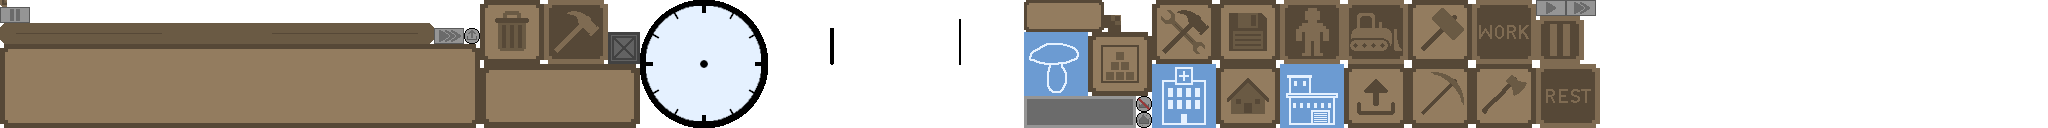
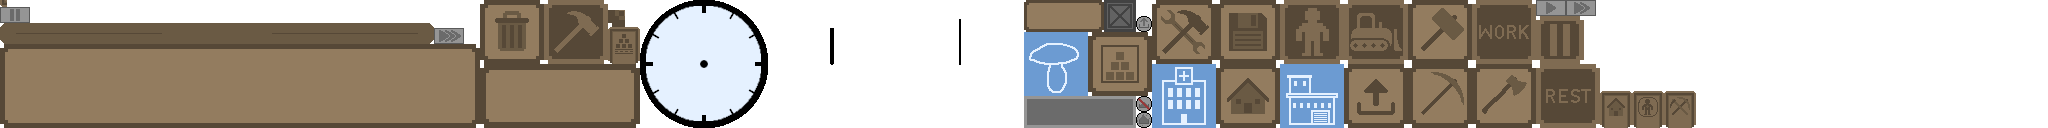
building window tabs

diff --git a/core/src/com/boxhead/builder/ui/UI.java b/core/src/com/boxhead/builder/ui/UI.java
@@ -43,12 +43,27 @@ public class UI {
 
     private static ResourceList resourceList;
 
-    private static Window buildWindow;
+    private static Window buildingWindow;
     private static TextArea buildWindowDivider;
-    private static Button logCabinButton, lumberjackButton, mineButton, serviceButton, storageButton, constructionOfficeButton, transportOfficeButton;
     private static UIElement buildingImage;
     private static Button buildButton;
     private static TextArea buildingDescription;
+
+    private static Button infrastructureTabButton;
+    private static UIElement infrastructureTab;
+    private static Button storageButton, constructionOfficeButton, transportOfficeButton;
+
+    private static Button housingTabButton;
+    private static UIElement housingTab;
+    private static Button logCabinButton;
+
+    private static Button resourcesTabButton;
+    private static UIElement resourcesTab;
+    private static Button lumberjackButton, mineButton;
+
+    private static Button servicesTabButton;
+    private static UIElement servicesTab;
+    private static Button serviceButton;
 
     private static Window pauseWindow;
     private static Button resumeButton, loadButton, saveButton, settingsButton, quitButton;
@@ -56,6 +71,11 @@ public class UI {
     private static Window saveWindow;
     private static TextArea saveText;
     private static ScrollPane scrollPane;
+    private static Button saveWindowBackButton;
+
+    private static Window settingsWindow;
+    private static TextArea settingsText;
+    private static Button settingsWindowBackButton;
 
     private static NPCStatWindow npcStatWindow;
     private static BuildingStatWindow buildingStatWindow;
@@ -83,9 +103,10 @@ public class UI {
     public enum Layer {
         BUILDINGS(true),
         IN_GAME(true),
-        BUILD_MENU(false),
+        BUILDING_MENU(false),
         PAUSE_MENU(false),
         SAVE_MENU(false),
+        SETTINGS_MENU(false),
         POPUP(false);
 
         private final List<UIElement> elements;
@@ -145,7 +166,7 @@ public class UI {
             resumeButton.setOnUp(() -> showPauseMenu(false));
             loadButton.setOnUp(UI::showLoadMenu);
             saveButton.setOnUp(UI::showSaveMenu);
-            settingsButton.setOnUp(() -> {});
+            settingsButton.setOnUp(() -> Layer.SETTINGS_MENU.setVisible(true));
             quitButton.setOnUp(() -> Gdx.app.exit());
 
             resumeButton.setTint(WHITE);
@@ -164,10 +185,42 @@ public class UI {
 
         saveText = new TextArea("Save", saveWindow, Layer.SAVE_MENU, new Vector2i(0, saveWindow.getWindowHeight() - 25), saveWindow.getWindowWidth(), true);
 
-        scrollPane = new ScrollPane(saveWindow, Layer.SAVE_MENU, new Vector2i(0, 20), saveWindow.getWindowWidth(), saveWindow.getWindowHeight() - 75);
+        scrollPane = new ScrollPane(saveWindow, Layer.SAVE_MENU, new Vector2i(0, saveWindow.getEdgeWidth() + padding*2 + 32), saveWindow.getWindowWidth(), saveWindow.getWindowHeight() - 75);
+
+        saveWindowBackButton = new Button(
+                Textures.get(Textures.Ui.SMALL_BUTTON),
+                saveWindow,
+                Layer.SAVE_MENU,
+                new Vector2i(saveWindow.getWindowWidth()/2 - 40, saveWindow.getEdgeWidth() + padding),
+                "Back");
+        saveWindowBackButton.setOnUp(() -> Layer.SAVE_MENU.setVisible(false));
 
         saveWindow.setTint(WHITE);
         saveText.setTint(WHITE);
+        saveWindowBackButton.setTint(WHITE);
+        //endregion
+
+        //region settingsWindow
+        {
+            settingsWindow = new Window(Textures.get(Textures.Ui.MENU_WINDOW), Anchor.CENTER.getElement(), Layer.SETTINGS_MENU, new Vector2i());
+            settingsWindow.setContentWidth(500);
+            settingsWindow.setContentHeight(500);
+            settingsWindow.setLocalPosition(-settingsWindow.getWindowWidth() / 2, -settingsWindow.getWindowHeight() / 2);
+
+            settingsText = new TextArea("Settings", settingsWindow, Layer.SETTINGS_MENU, new Vector2i(0, settingsWindow.getWindowHeight() - 25), settingsWindow.getWindowWidth(), true);
+
+            settingsWindowBackButton = new Button(
+                    Textures.get(Textures.Ui.SMALL_BUTTON),
+                    settingsWindow,
+                    Layer.SETTINGS_MENU,
+                    new Vector2i(settingsWindow.getWindowWidth()/2 - 40, settingsWindow.getEdgeWidth() + padding),
+                    "Back");
+            settingsWindowBackButton.setOnUp(() -> Layer.SETTINGS_MENU.setVisible(false));
+
+            settingsWindow.setTint(WHITE);
+            settingsText.setTint(WHITE);
+            settingsWindowBackButton.setTint(WHITE);
+        }
         //endregion
 
         //region mainButtonGroup
@@ -180,13 +233,7 @@ public class UI {
             demolishButton = new Button(Textures.get(Textures.Ui.DEMOLISH), Anchor.BOTTOM_LEFT.getElement(), Layer.IN_GAME, new Vector2i(x + 74, padding));
             pauseGameButton = new Button(Textures.get(Textures.Ui.PAUSE_GAME), Anchor.BOTTOM_RIGHT.getElement(), Layer.IN_GAME, new Vector2i(-48 - padding, padding));
 
-            buildMenuButton.setOnUp(() -> {
-                Layer.BUILD_MENU.setVisible(!Layer.BUILD_MENU.isVisible());
-                buildingImage.setTexture(null);
-                buildWindowDivider.setText("");
-                buildingDescription.setText("");
-                buildButton.setVisible(false);
-            });
+            buildMenuButton.setOnUp(() -> Layer.BUILDING_MENU.setVisible(!Layer.BUILDING_MENU.isVisible()));
 
             npcButton.setOnUp(() -> {
                 Vector2i position = new Vector2i(World.getGridWidth() / 2, World.getGridHeight() / 2);
@@ -202,49 +249,117 @@ public class UI {
 
         //region buildingWindow
         {
-            buildWindow = new Window(Textures.get(Textures.Ui.WINDOW), Anchor.CENTER.getElement(), Layer.BUILD_MENU, new Vector2i(), true);
-            buildWindow.setContentWidth(454);
-            buildWindow.setContentHeight(400);
-            buildWindow.setLocalPosition(-buildWindow.getWindowWidth() / 2, -buildWindow.getWindowHeight() / 2);
+            buildingWindow = new Window(Textures.get(Textures.Ui.WINDOW), Anchor.CENTER.getElement(), Layer.BUILDING_MENU, new Vector2i(), true);
+            buildingWindow.setContentWidth(454);
+            buildingWindow.setContentHeight(400);
+            buildingWindow.setLocalPosition(-buildingWindow.getWindowWidth() / 2, -buildingWindow.getWindowHeight() / 2);
 
-            buildWindowDivider = new TextArea(Textures.get(Textures.Ui.DIVIDER), "", buildWindow, Layer.BUILD_MENU, new Vector2i(), true);
+            buildWindowDivider = new TextArea(Textures.get(Textures.Ui.DIVIDER), "", buildingWindow, Layer.BUILDING_MENU, new Vector2i(), true);
             buildWindowDivider.setLocalPosition(
-                    buildWindow.getTexture().getRegionWidth() + padding,
-                    buildWindow.getTexture().getRegionHeight() + 128 + padding * 2
+                    buildingWindow.getTexture().getRegionWidth() + padding,
+                    buildingWindow.getTexture().getRegionHeight() + 128 + padding * 2
             );
 
-            buildingImage = new UIElement(null, buildWindow, Layer.BUILD_MENU, new Vector2i(buildWindow.getEdgeWidth() + padding, buildWindow.getEdgeWidth() + padding));
+            buildingImage = new UIElement(null, buildingWindow, Layer.BUILDING_MENU, new Vector2i(buildingWindow.getEdgeWidth() + padding, buildingWindow.getEdgeWidth() + padding));
 
-            buildingDescription = new TextArea("", buildWindow, Layer.BUILD_MENU, new Vector2i(), 200, false);
+            buildingDescription = new TextArea("", buildingWindow, Layer.BUILDING_MENU, new Vector2i(), 200, false);
 
             buildButton = new Button(
                     Textures.get(Textures.Ui.BUILD),
-                    buildWindow, Layer.BUILD_MENU,
-                    new Vector2i(buildWindow.getWindowWidth() - buildWindow.getEdgeWidth() - 64 - padding, buildWindow.getEdgeWidth() + padding));
+                    buildingWindow, Layer.BUILDING_MENU,
+                    new Vector2i(buildingWindow.getWindowWidth() - buildingWindow.getEdgeWidth() - 64 - padding, buildingWindow.getEdgeWidth() + padding));
             buildButton.setVisible(false);
 
-            int x = buildWindow.getTexture().getRegionWidth() + padding;
-            int y = buildWindow.getWindowHeight() - buildWindow.getEdgeWidth() - padding - 64;
+            int tabX = padding;
 
-            logCabinButton = new Button(Textures.get(Textures.Ui.HOUSE), buildWindow, Layer.BUILD_MENU, new Vector2i(x, y));
-            lumberjackButton = new Button(Textures.get(Textures.Ui.AXE), buildWindow, Layer.BUILD_MENU, new Vector2i(x += 74, y));
-            mineButton = new Button(Textures.get(Textures.Ui.PICKAXE), buildWindow, Layer.BUILD_MENU, new Vector2i(x += 74, y));
-            storageButton = new Button(Textures.get(Textures.Ui.STORAGE), buildWindow, Layer.BUILD_MENU, new Vector2i(x += 74, y));
-            serviceButton = new Button(Textures.get(Textures.Ui.SERVICE), buildWindow, Layer.BUILD_MENU, new Vector2i(x += 74, y));
-            constructionOfficeButton = new Button(Textures.get(Textures.Ui.BIG_HAMMER), buildWindow, Layer.BUILD_MENU, new Vector2i(x += 74, y));
+            //region infrastructureTab
+            {
+                infrastructureTabButton = new Button(Textures.get(Textures.Ui.INFRASTRUCTURE_TAB), buildingWindow, Layer.BUILDING_MENU, new Vector2i(tabX, buildingWindow.getWindowHeight()-5));
+                infrastructureTabButton.setOnUp(() -> setVisibleTab(0));
 
-            x = buildWindow.getEdgeWidth() + padding;
-            y -= 74;
+                infrastructureTab = new UIElement(
+                        buildingWindow,
+                        Layer.BUILDING_MENU,
+                        new Vector2i(buildingWindow.getEdgeWidth() + padding, buildingWindow.getWindowHeight() - buildingWindow.getEdgeWidth() - padding),
+                        true);
 
-            transportOfficeButton = new Button(Textures.get(Textures.Ui.CONSTRUCTION_OFFICE), buildWindow, Layer.BUILD_MENU, new Vector2i(x, y));
+                int x = 0;
+                int y = -64;
 
-            logCabinButton.setOnUp(() -> showBuildingStats(Buildings.Type.LOG_CABIN));
-            lumberjackButton.setOnUp(() -> showBuildingStats(Buildings.Type.LUMBERJACKS_HUT));
-            mineButton.setOnUp(() -> showBuildingStats(Buildings.Type.MINE));
-            storageButton.setOnUp(() -> showBuildingStats(Buildings.Type.DEFAULT_STORAGE_BUILDING));
-            serviceButton.setOnUp(() -> showBuildingStats(Buildings.Type.DEFAULT_SERVICE_BUILDING));
-            constructionOfficeButton.setOnUp(() -> showBuildingStats(Buildings.Type.BUILDERS_HUT));
-            transportOfficeButton.setOnUp(() -> showBuildingStats(Buildings.Type.TRANSPORT_OFFICE));
+                storageButton = new Button(Textures.get(Textures.Ui.STORAGE), infrastructureTab, Layer.BUILDING_MENU, new Vector2i(x, y));
+                constructionOfficeButton = new Button(Textures.get(Textures.Ui.BIG_HAMMER), infrastructureTab, Layer.BUILDING_MENU, new Vector2i(x += 74, y));
+                transportOfficeButton = new Button(Textures.get(Textures.Ui.CONSTRUCTION_OFFICE), infrastructureTab, Layer.BUILDING_MENU, new Vector2i(x + 74, y));
+
+                storageButton.setOnUp(() -> showBuildingStats(Buildings.Type.DEFAULT_STORAGE_BUILDING));
+                constructionOfficeButton.setOnUp(() -> showBuildingStats(Buildings.Type.BUILDERS_HUT));
+                transportOfficeButton.setOnUp(() -> showBuildingStats(Buildings.Type.TRANSPORT_OFFICE));
+            }
+            //endregion
+
+            //region housingTab
+            {
+                housingTabButton = new Button(Textures.get(Textures.Ui.HOUSING_TAB), buildingWindow, Layer.BUILDING_MENU, new Vector2i(tabX += 32 + padding, buildingWindow.getWindowHeight()-5));
+                housingTabButton.setOnUp(() -> setVisibleTab(1));
+                housingTabButton.setTint(PRESSED_COLOR);
+
+                housingTab = new UIElement(
+                        buildingWindow,
+                        Layer.BUILDING_MENU,
+                        new Vector2i(buildingWindow.getEdgeWidth() + padding, buildingWindow.getWindowHeight() - buildingWindow.getEdgeWidth() - padding),
+                        false);
+
+                int x = 0;
+                int y = -64;
+
+                logCabinButton = new Button(Textures.get(Textures.Ui.HOUSE), housingTab, Layer.BUILDING_MENU, new Vector2i(x, y));
+
+                logCabinButton.setOnUp(() -> showBuildingStats(Buildings.Type.LOG_CABIN));
+            }
+            //endregion
+
+            //region resourcesTab
+            {
+                resourcesTabButton = new Button(Textures.get(Textures.Ui.RESOURCES_TAB), buildingWindow, Layer.BUILDING_MENU, new Vector2i(tabX += 32 + padding, buildingWindow.getWindowHeight()-5));
+                resourcesTabButton.setOnUp(() -> setVisibleTab(2));
+                resourcesTabButton.setTint(PRESSED_COLOR);
+
+                resourcesTab = new UIElement(
+                        buildingWindow,
+                        Layer.BUILDING_MENU,
+                        new Vector2i(buildingWindow.getEdgeWidth() + padding, buildingWindow.getWindowHeight() - buildingWindow.getEdgeWidth() - padding),
+                        false);
+
+                int x = 0;
+                int y = -64;
+
+                lumberjackButton = new Button(Textures.get(Textures.Ui.AXE), resourcesTab, Layer.BUILDING_MENU, new Vector2i(x, y));
+                mineButton = new Button(Textures.get(Textures.Ui.PICKAXE), resourcesTab, Layer.BUILDING_MENU, new Vector2i(x += 74, y));
+
+                lumberjackButton.setOnUp(() -> showBuildingStats(Buildings.Type.LUMBERJACKS_HUT));
+                mineButton.setOnUp(() -> showBuildingStats(Buildings.Type.MINE));
+            }
+            //endregion
+
+            //region serviceTab
+            {
+                servicesTabButton = new Button(Textures.get(Textures.Ui.SERVICES_TAB), buildingWindow, Layer.BUILDING_MENU, new Vector2i(tabX += 32 + padding, buildingWindow.getWindowHeight()-5));
+                servicesTabButton.setOnUp(() -> setVisibleTab(3));
+                servicesTabButton.setTint(PRESSED_COLOR);
+
+                servicesTab = new UIElement(
+                        buildingWindow,
+                        Layer.BUILDING_MENU,
+                        new Vector2i(buildingWindow.getEdgeWidth() + padding, buildingWindow.getWindowHeight() - buildingWindow.getEdgeWidth() - padding),
+                        false);
+
+                int x = 0;
+                int y = -64;
+
+                serviceButton = new Button(Textures.get(Textures.Ui.SERVICE), servicesTab, Layer.BUILDING_MENU, new Vector2i(x, y));
+
+                serviceButton.setOnUp(() -> showBuildingStats(Buildings.Type.DEFAULT_SERVICE_BUILDING));
+            }
+            //endregion
         }
         //endregion
 
@@ -305,20 +420,25 @@ public class UI {
         x3Button.addToUI();
         resourceList.addToUI();
 
-        Layer.BUILD_MENU.addElement(buildMenuButton);
-        Layer.BUILD_MENU.addElement(npcButton);
-        Layer.BUILD_MENU.addElement(workButton);
-        Layer.BUILD_MENU.addElement(restButton);
-        Layer.BUILD_MENU.addElement(demolishButton);
+        Layer.BUILDING_MENU.addElement(buildMenuButton);
+        Layer.BUILDING_MENU.addElement(npcButton);
+        Layer.BUILDING_MENU.addElement(workButton);
+        Layer.BUILDING_MENU.addElement(restButton);
+        Layer.BUILDING_MENU.addElement(demolishButton);
 
-        buildWindow.addToUI();
-            logCabinButton.addToUI();
-            lumberjackButton.addToUI();
-            mineButton.addToUI();
-            serviceButton.addToUI();
-            storageButton.addToUI();
-            constructionOfficeButton.addToUI();
-            transportOfficeButton.addToUI();
+        buildingWindow.addToUI();
+            infrastructureTabButton.addToUI();
+                storageButton.addToUI();
+                constructionOfficeButton.addToUI();
+                transportOfficeButton.addToUI();
+            housingTabButton.addToUI();
+                logCabinButton.addToUI();
+            resourcesTabButton.addToUI();
+                lumberjackButton.addToUI();
+                mineButton.addToUI();
+            servicesTabButton.addToUI();
+                serviceButton.addToUI();
+
             buildWindowDivider.addToUI();
             buildingImage.addToUI();
             buildingDescription.addToUI();
@@ -333,6 +453,11 @@ public class UI {
 
         saveWindow.addToUI();
             saveText.addToUI();
+            saveWindowBackButton.addToUI();
+
+        settingsWindow.addToUI();
+            settingsText.addToUI();
+            settingsWindowBackButton.addToUI();
     }
 
     public static void drawUI(SpriteBatch batch) {
@@ -447,8 +572,8 @@ public class UI {
 
     public static void onEscape() {
         if (!Logic.isPaused()) {
-            if (Layer.BUILD_MENU.isVisible()) {
-                Layer.BUILD_MENU.setVisible(false);
+            if (Layer.BUILDING_MENU.isVisible()) {
+                Layer.BUILDING_MENU.setVisible(false);
             }
             else if (Buildings.isInBuildingMode() || Buildings.isDemolishing()) {
                 Buildings.turnOffBuildingMode();
@@ -472,6 +597,18 @@ public class UI {
             if(Layer.values()[i].isVisible()) return Layer.values()[i];
         }
         return null;
+    }
+
+    private static void setVisibleTab(int index) {
+        infrastructureTab.setVisible(index == 0);
+        housingTab.setVisible(index == 1);
+        resourcesTab.setVisible(index == 2);
+        servicesTab.setVisible(index == 3);
+
+        infrastructureTabButton.setTint(index == 0 ? DEFAULT_COLOR : PRESSED_COLOR);
+        housingTabButton.setTint(index == 1 ? DEFAULT_COLOR : PRESSED_COLOR);
+        resourcesTabButton.setTint(index == 2 ? DEFAULT_COLOR : PRESSED_COLOR);
+        servicesTabButton.setTint(index == 3 ? DEFAULT_COLOR : PRESSED_COLOR);
     }
 
     private static void showPauseMenu(boolean open) {
@@ -628,7 +765,7 @@ public class UI {
 
         buildButton.setOnUp(() -> {
             Buildings.toBuildingMode(building);
-            Layer.BUILD_MENU.setVisible(false);
+            Layer.BUILDING_MENU.setVisible(false);
         });
 
         buildButton.setVisible(true);

diff --git a/core/src/com/boxhead/builder/World.java b/core/src/com/boxhead/builder/World.java
@@ -57,7 +57,7 @@ public class World {
         //temp
         Vector2i constructionOfficePos = new Vector2i((int) (worldSize.x * 0.45f), (int) (worldSize.y * 0.45));
         placeBuilding(Buildings.Type.BUILDERS_HUT, constructionOfficePos);
-        makeUnnavigable(new BoxCollider(constructionOfficePos, 2, 2));
+        makeUnnavigable(new BoxCollider(constructionOfficePos, 4, 2));
     }
 
     public static void handleNpcsAndBuildingsOnClick() {

diff --git a/core/src/com/boxhead/builder/Textures.java b/core/src/com/boxhead/builder/Textures.java
@@ -79,6 +79,7 @@ public class Textures {
         HAMMER, NPC, WORK, REST, DEMOLISH, PAUSE_GAME,
         HOUSE, AXE, PICKAXE, BIG_HAMMER, STORAGE, BUILD,
         SAVE, LOAD, DELETE,
+        INFRASTRUCTURE_TAB, HOUSING_TAB, RESOURCES_TAB, SERVICES_TAB,
 
         DIVIDER,
         SMALL_BUTTON, BIG_BUTTON,
